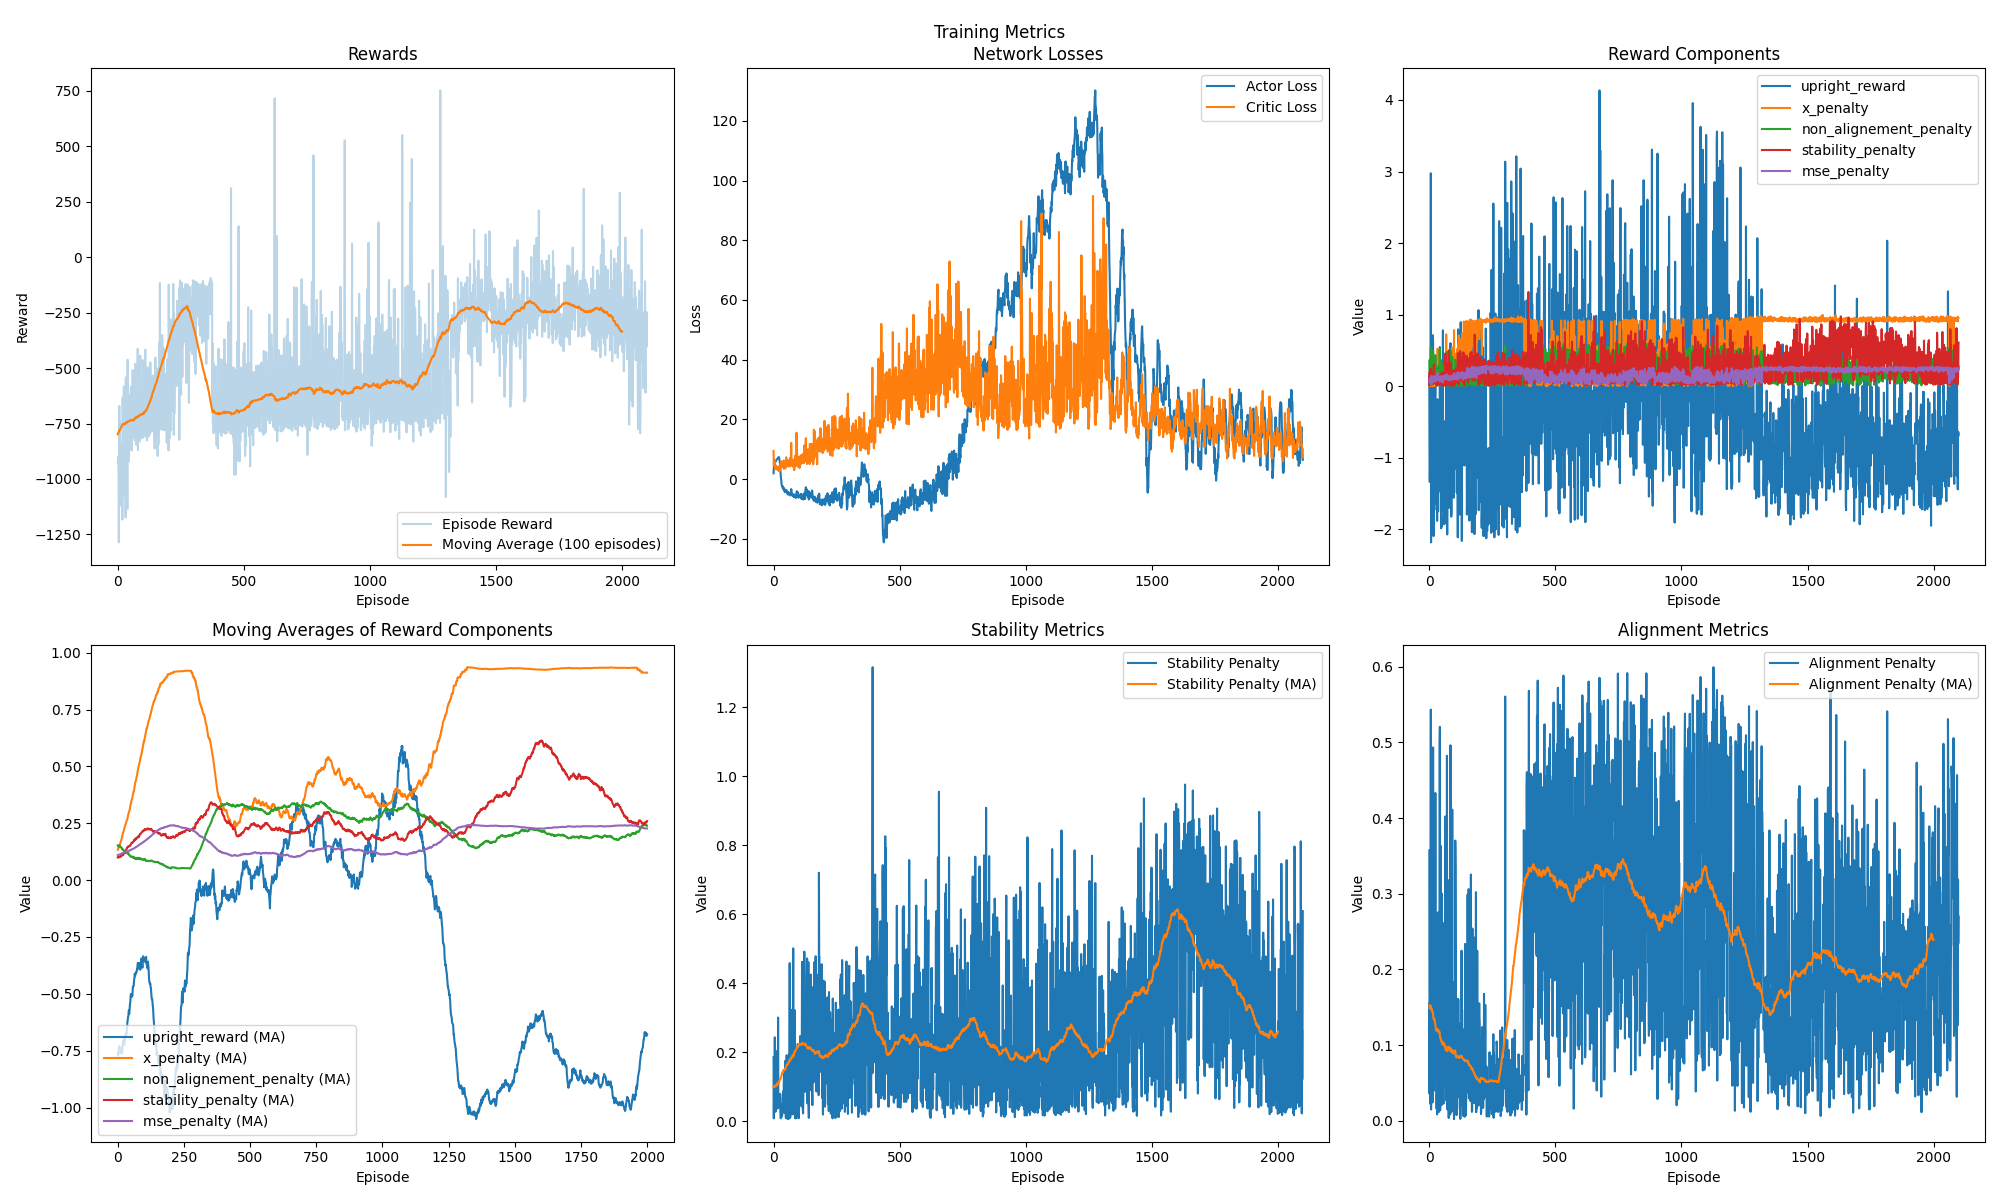
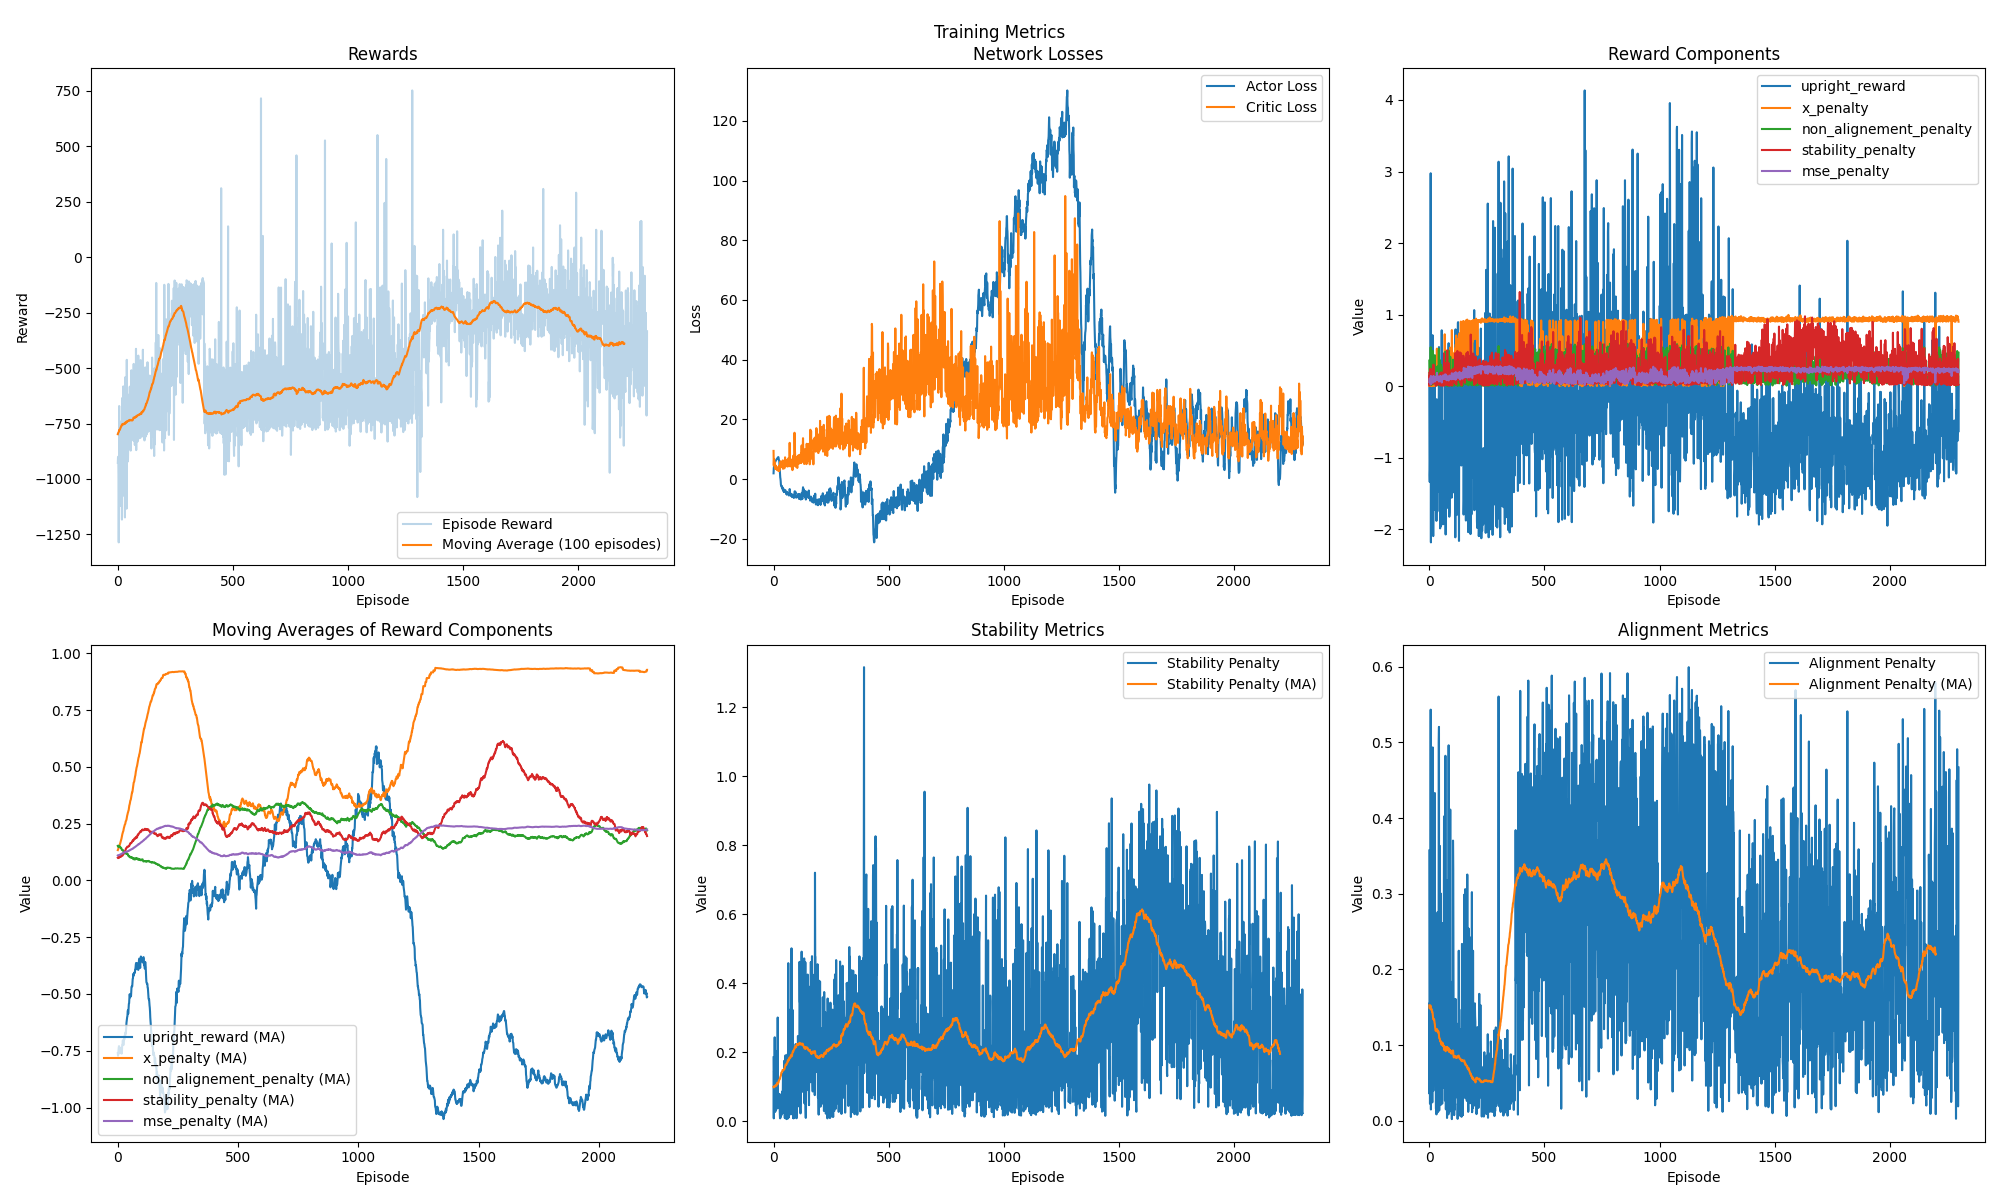
Augmentation de la dimension cachée dans la classe TriplePendulumActor de 256 à 512 pour améliorer la capacité d'apprentissage. Mise à jour de l'image des métriques pour refléter ces modifications.

diff --git a/model.py b/model.py
@@ -4,7 +4,7 @@ import torch.nn.functional as F
 import random as rd
 
 class TriplePendulumActor(nn.Module):
-    def __init__(self, state_dim, action_dim, hidden_dim=256):
+    def __init__(self, state_dim, action_dim, hidden_dim=512):
         super(TriplePendulumActor, self).__init__()
         
         # Add layer normalization for input
